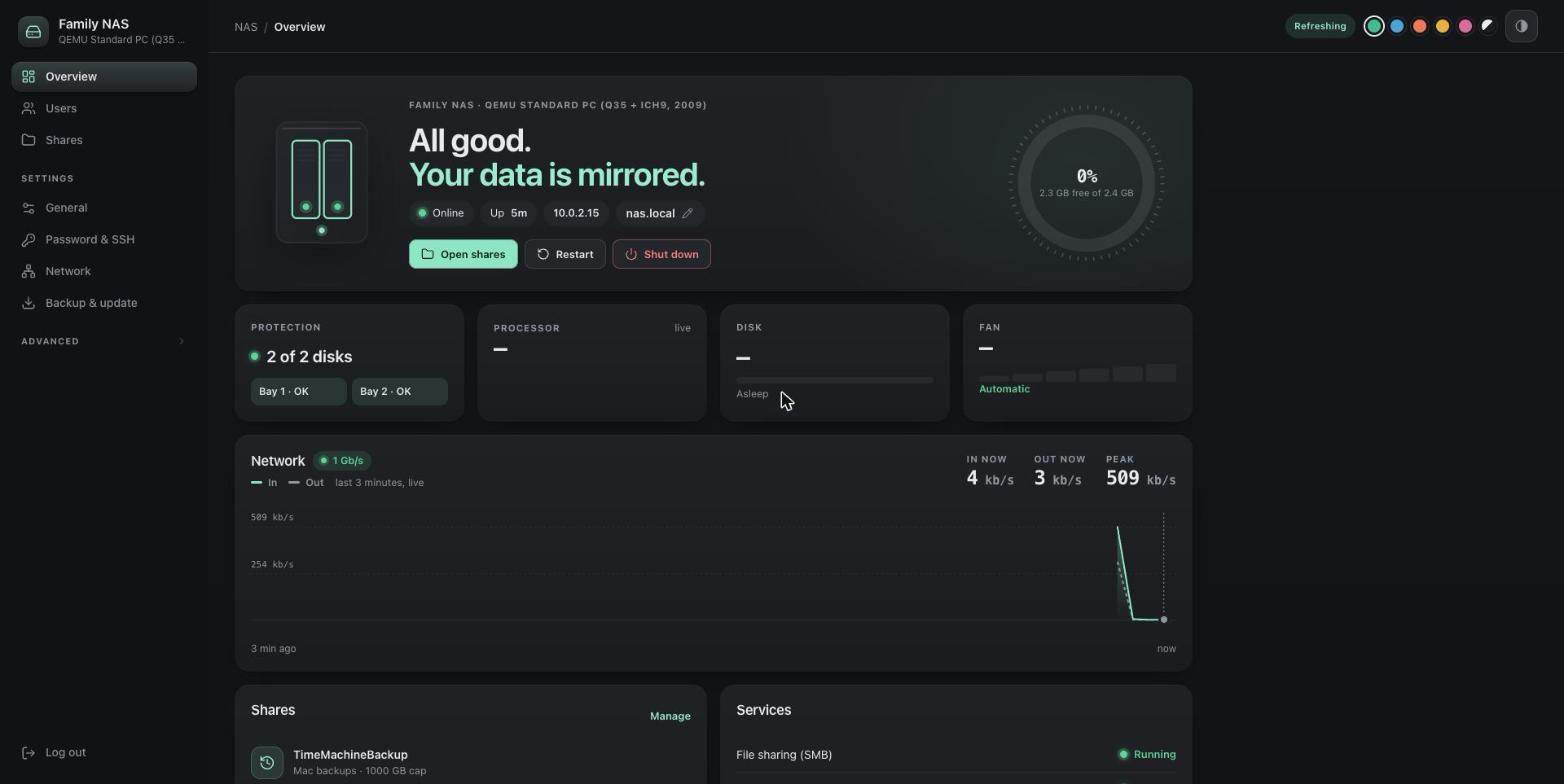
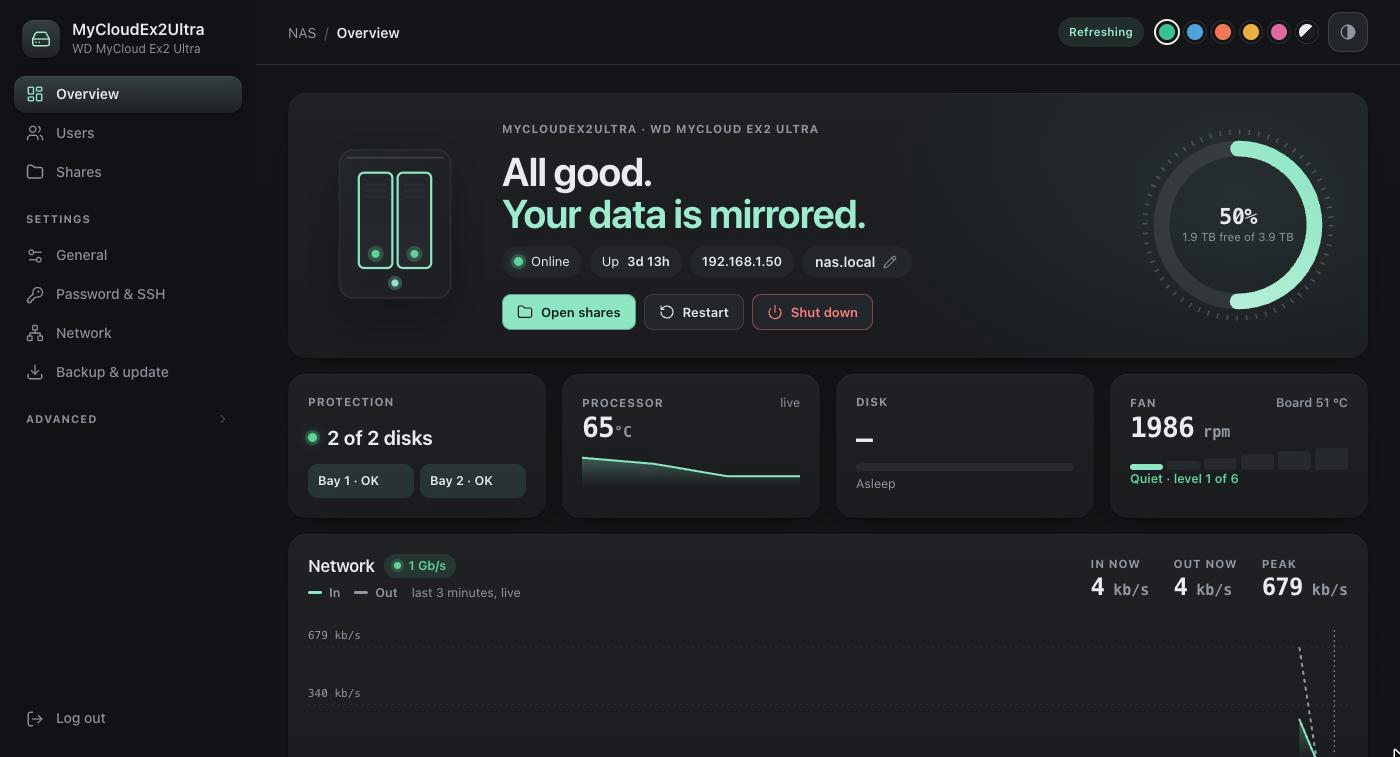
Dashboard screenshots from a real EX2 Ultra (example names)

diff --git a/docs/SETUP-GUIDE.md b/docs/SETUP-GUIDE.md
@@ -96,6 +96,8 @@ Open **`http://nas.local`** (or `http://<NAS IP>`) and sign in as `root`.
 
 ![Dashboard overview](images/dashboard-overview.png)
 
+<sub>Real EX2 Ultra dashboard; user and share names and the address are examples.</sub>
+
 <table>
 <tr>
 <td><img src="images/dashboard-users.png" alt="Users page"></td>
